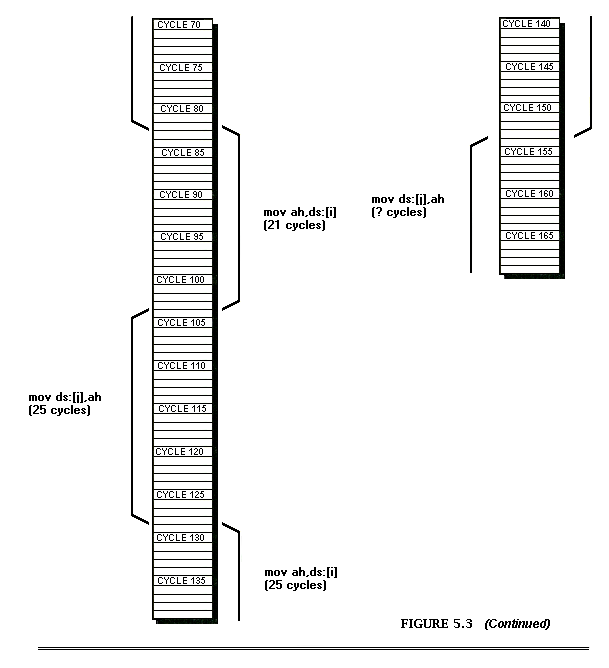
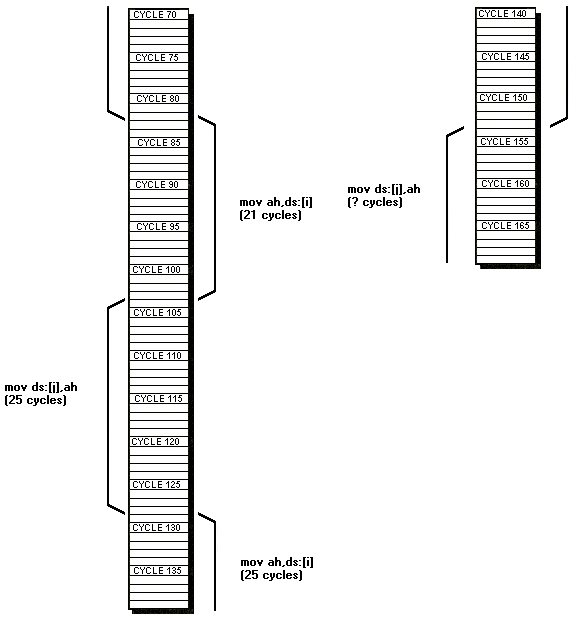
Inline chapter 5 figure text

Changed region(s): [[0.0, 0.0, 0.9671, 1.0], [0.8111, 0.0, 0.9983, 0.4597], [0.5927, 0.2145, 0.7799, 0.3984]]

diff --git a/src/chapter-05.md b/src/chapter-05.md
@@ -68,11 +68,11 @@ The following lines of the 8088 were monitored with OmniLab: the 16 lines that c
 
 Odds are that you, the reader, are not a hardware engineer. After all, this *is* a book about software, however far it may seem to stray at times. Consequently, I'm not going to show the execution of [Listing 5-1](#listing-5-1) in the form of the timing diagrams of which hardware engineers are so fond. Timing diagrams are fine for observing the state of a single line, but are hard to follow at an overall level, which is precisely what we want to see. Instead, I've condensed the information I collected with OmniLab into an event time-line, shown in Figure 5.1.
 
-![](images/fig5.1aRT.png)
+![**Figure 5.1** A timeline showing 170 cycles during the execution of the code in Listing 5-1. This figure illustrates the interleaving of instruction fetches, transfers of instruction bytes to the execution unit, and access to memory operands that routinely occurs during the execution of 8088 code. Various cycle eaters cause each of the two instructions (`mov ah,ds:[i]`{.nasm} and `mov ds:[j],ah`{.nasm}) to execute at different times. Note that the sequence of events repeats at cycle 144.](images/fig5.1aRT.png)
 
-![](images/fig5.1bRT.png)
+![**Figure 5.1** *(Continued)*](images/fig5.1bRT.png)
 
-![](images/fig5.1cRT.png)
+![**Figure 5.1** *(Continued)*](images/fig5.1cRT.png)
 
 ### The Results
 
@@ -98,7 +98,7 @@ The difference is the result of the DRAM refresh that occurred at cycle 118, pre
 
 One somewhat startling aspect of Figure 5.1 is that it makes it clear that there is no such thing as the time interval during which a given instruction—and only that instruction—executes. There is the time at which a given byte of an instruction is prefetched, there is a time at which a given byte of an instruction is sent to the EU, and there is a time at which each memory operand byte of an instruction is accessed. None of those times really marks the start or end of an instruction, though, and the instruction fetches and memory accesses of one instruction usually overlap those of other instructions.
 
-![](images/fig5.2RT.png)
+![**Figure 5.2** An illustration of the overlap of instruction execution in the 8088. This figure summarizes the information in Figure 5.1 to show the period of time during which each instruction occupies the attention of at least some part of the 8088 by involvement in instruction fetching, execution, or accesses to a memory operand. It's inappropriate to count the full time shown for an instruction as that instruction's execution time; times during which instructions overlap should be chared to only one instruction, because the 8088 increases overall performance at those times by coprocessing. Note that bus accesses are assumed to start 2 cycles before the cycle after which the /MEMR or /MEMW line becomes inactive, since bus cycles take 4 cycles in all. As a result, the bus access start times shown may be off by a cycle, but the implications of this figure remain the same regardless.](images/fig5.2RT.png)
 
 Figure 5.2 illustrates the full range of action of each of the instructions in Figure 5.1. (In Figure 5.2, and in Figure 5.3 as well, the two sides of the time-line are equivalent; there is no specific meaning to text on, say, the left side as there is in Figure 5.1. I simply alternate sides in order to keep one instruction from running into the next.)
 
@@ -106,11 +106,11 @@ For example, at cycle 143 the last instruction byte of `mov ah,ds:[i]`{.nasm} is
 
 It's easiest to consider execution to start when the opcode byte of an instruction is sent to the EU and end when the opcode byte of the next instruction is sent to the EU, as shown in Figure 5.3.
 
-![](images/fig5.3aRT.png)
+![**Figure 5.3** The effective overall execution times of the instructions shown in Figure 5.1. This figure summarizes the information in Figure 5.1 to show the time each instruction takes to execute, as measured starting at the cycle during which each instruction's opcode byte is sent to the EU and ending with the cycle after which the following instruction's opcode byte is sent to the EU. Note that, thanks to the DRAM refresh and prefetch queue cycle eaters, each of the three executions of `mov ah,ds:[i]`{.nasm} takes a different number of cycles from start to finish, likewise, only two of the three executions of `mov ds:[j],ah`{.nasm} execute at the same speed. This clearly illustrates why the concept of a single "true" execution time for a given instruction is unworkable on the PC.](images/fig5.3aRT.png)
 
 Under this approach, the current instruction is charged with any instruction fetch time for the opcode byte of the next instruction that isn't overlapped with EU execution of the current instruction. This is consistent with our conclusion in Chapter 4 that execution time is, practically speaking, EU execution time plus any instruction fetch time that's not overlapped with the EU execution time of another instruction. Therefore, `mov ah,ds:[i]`{.nasm} executes during cycles 129 through 153.r
 
-![](images/fig5.3bRT.png)
+![**Figure 5.3** *(Continued)*](images/fig5.3bRT.png)
 
 In truth, though, the first hint of `mov ah,ds:[i]`{.nasm} occurs at cycle 122, when the opcode byte is fetched. In fact, since read accesses to memory take 4 cycles, the 8088 must have begun fetching the opcode byte earlier still. Figure 5.2 assumes that the 8088 starts bus accesses 2 cycles before the cycle during which /MEMR or /MEMW becomes inactive. That assumption may be off by a cycle, but none of our conclusions would be altered if that were the case. Consequently, the instruction **mov ah,ds:[i]** occupies the attention of at least some part of the 8088 from around cycle 120 up through cycle 153, or 34 cycles, as shown in Figure 5.2.
 
@@ -124,7 +124,7 @@ Unfortunately, assembler itself tests the limits of human comprehension of proce
 
 And that is yet another reason why an understanding of code performance at the level shown in Figure 5.1 isn't desirable.
 
-![](images/fig5.3cRT.png)
+![**Figure 5.3** *(Continued)*](images/fig5.3cRT.png)
 
 ### Variability
 
